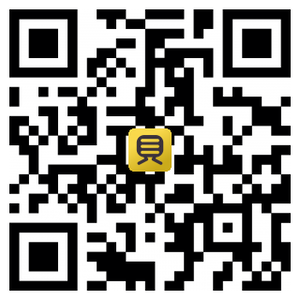
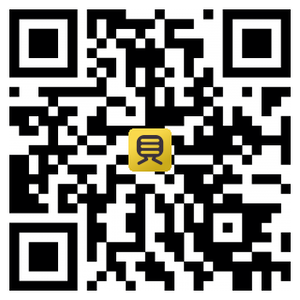
扫码下载

diff --git a/cp-web/src/main/resources/static/web/view/download.html b/cp-web/src/main/resources/static/web/view/download.html
@@ -35,7 +35,7 @@
     版本：1.0&nbsp;&nbsp;&nbsp;/&nbsp;&nbsp;&nbsp;更新日期：2019-09-18 20:00
 </p>
 <p>
-    <img src="/web/img/applogo.png" width="100px" height="100px"/>
+    <img src="/web/img/download.png" width="300px" height="300px"/>
     <br>
     <br>
     <button type="button" onclick="download()" class="btn btn-primary">安卓版下载</button>
@@ -44,7 +44,7 @@
 </body>
 <script type="text/javascript">
     function download() {
-        window.location.href = "app.apk";
+        window.location.href = "apk/app.apk";
     }
 </script>
 </html>

diff --git a/cp-web/src/main/resources/static/web/home.html b/cp-web/src/main/resources/static/web/home.html
@@ -67,7 +67,7 @@
                 <a href="www.baidu.com">关于我们</a>
                 <a href="www.baidu.com">平台简介</a>
                 <a href="www.baidu.com">新手任务</a>
-                <a href="view/download.html">软件下载</a>
+                <a @click="loadCenterContent('view/download.html')" href="#">软件下载</a>
             </div>
             <div class="col-lg-6 col-md-6 col-sm-6 col-xs-6 download-content">
                 <img class="download-img" src="img/download.png"/>
